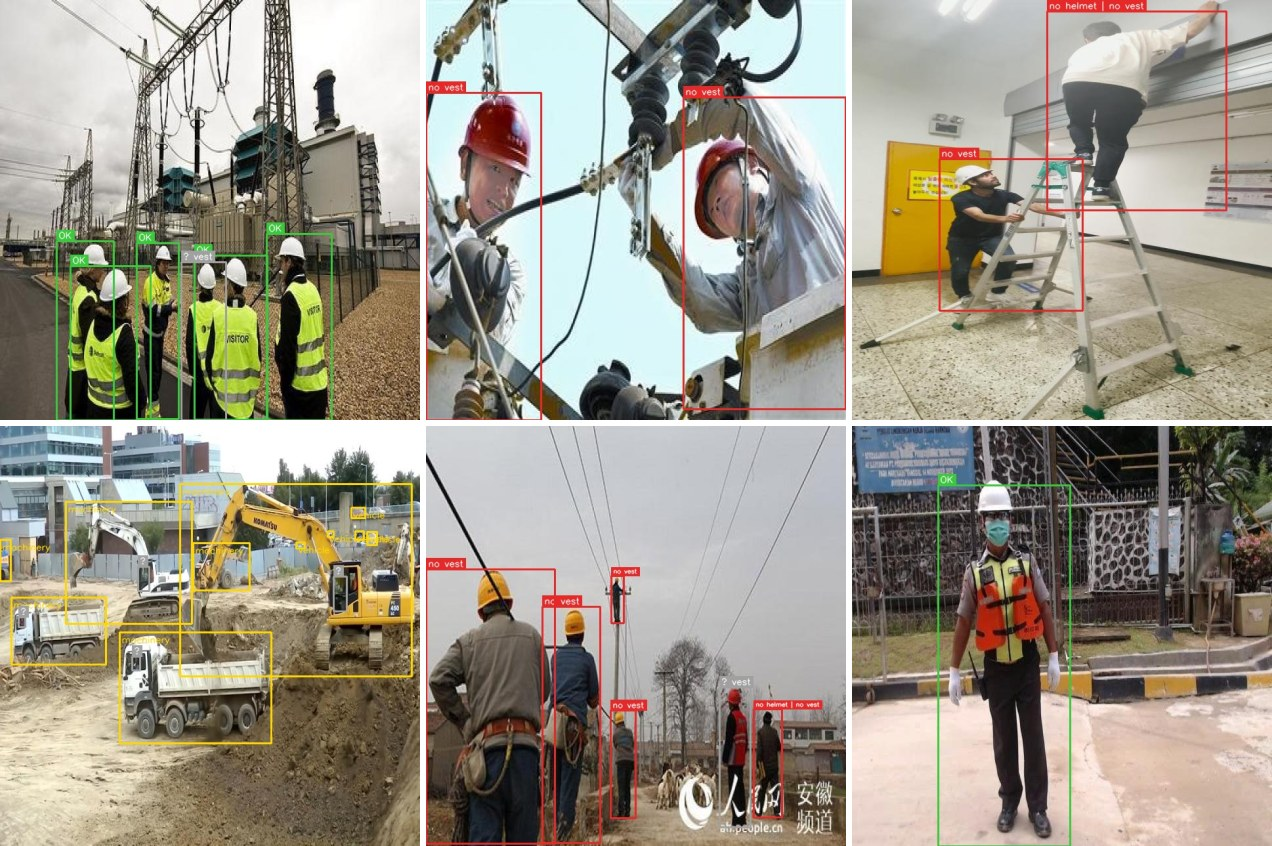
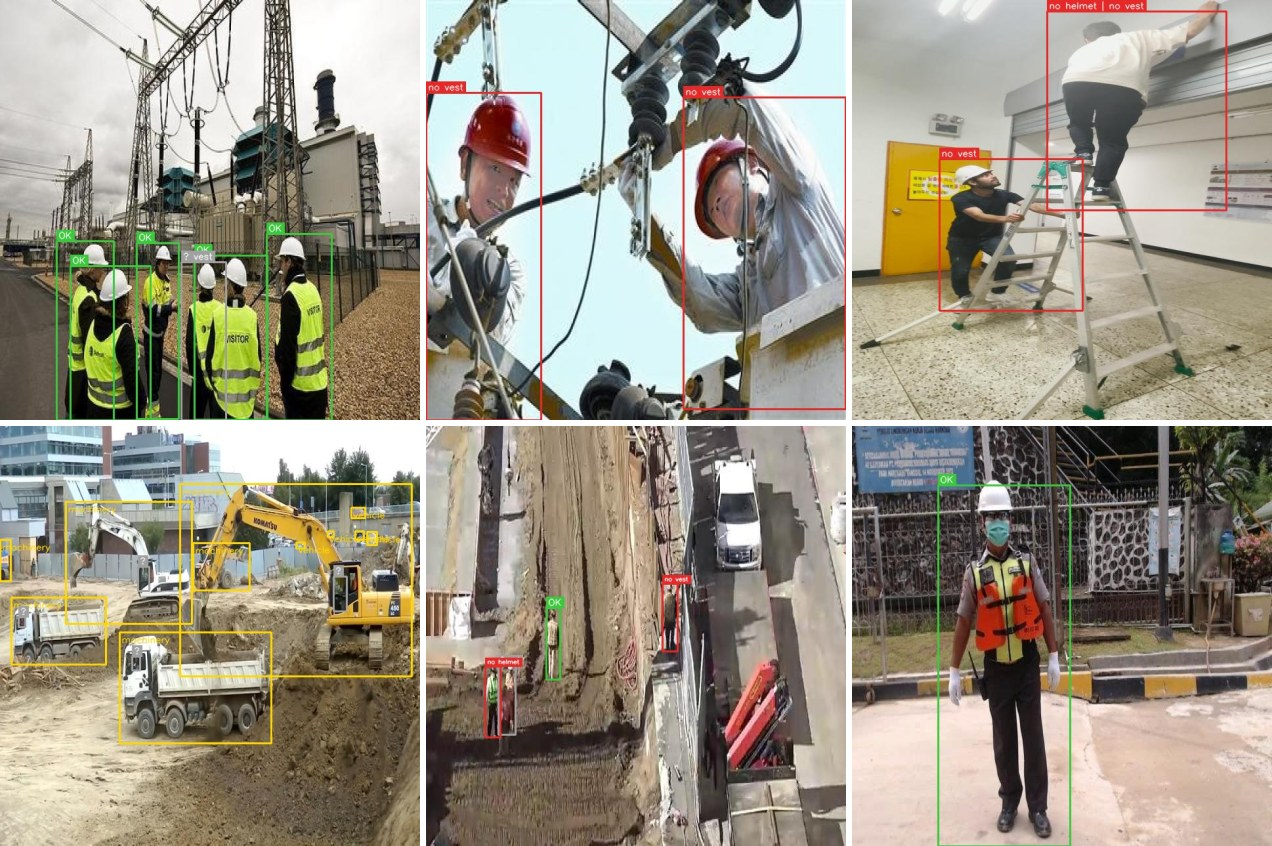
Figures without third-party watermarks, image credits under each figure

Changed region(s): [[0.3373, 0.4917, 0.6745, 1.0]]

diff --git a/scripts/make_panel.py b/scripts/make_panel.py
@@ -28,6 +28,8 @@ def main():
     p.add_argument("--cell", type=int, nargs=2, default=(420, 420), metavar=("W", "H"))
     p.add_argument("--gap", type=int, default=6)
     p.add_argument("--out", default="assets/results_panel.jpg")
+    p.add_argument("--numbers", action="store_true",
+                   help="write the image number in each cell (contact sheet for choosing images)")
     a = p.parse_args()
 
     w, h = a.cell
@@ -36,7 +38,13 @@ def main():
         img = cv2.imread(f)
         if img is None:
             raise SystemExit(f"cannot read {f}")
-        cells.append(fit(img, w, h))
+        cell = fit(img, w, h)
+        if a.numbers:
+            n = str(len(cells) + 1)
+            cv2.rectangle(cell, (0, 0), (60, 44), (0, 0, 0), -1)
+            cv2.putText(cell, n, (8, 34), cv2.FONT_HERSHEY_SIMPLEX, 1.2, (255, 255, 255), 2, cv2.LINE_AA)
+            print(f"{n:>3}  {f}")
+        cells.append(cell)
     rows = []
     for i in range(0, len(cells), a.cols):
         row = cells[i:i + a.cols]

diff --git a/README.md b/README.md
@@ -4,7 +4,8 @@
 
 ![results on construction-site images](assets/results_panel.jpg)
 
-*Released model on held-out construction-site images, checking what a construction site requires: hard hat and vest. Masks are checked only in zones that require them (a paint room in `configs/site_safety_zones.json`, or `--requires helmet vest mask`), so they are not judged here. Green `OK`: hard hat and vest worn. Red: what is missing (`no vest`, `no helmet`, `not hard hat` = non-work headwear). Grey `?`: cannot be judged (operator in a cab, person too small or hidden), and `? vest`: a vest detected with too little confidence to be trusted (bottom middle: a worker in red clothing, not accepted as wearing a vest). Yellow: machines and vehicles.*
+*Released model on held-out construction-site images, checking what a construction site requires: hard hat and vest. Masks are checked only in zones that require them (a paint room in `configs/site_safety_zones.json`, or `--requires helmet vest mask`), so they are not judged here. Green `OK`: hard hat and vest worn. Red: what is missing (`no vest`, `no helmet`, `not hard hat` = non-work headwear). Grey `?`: cannot be judged (operator in a cab, person too small or hidden), and `? vest`: a vest detected with too little confidence to be trusted (see *Development history*, step 5). Yellow: machines and vehicles.
+Images: [Construction Site Safety](https://www.kaggle.com/datasets/snehilsanyal/construction-site-safety-image-dataset-roboflow) (Roboflow, via Kaggle), CC BY 4.0; boxes and labels drawn by this project.*
 
 | Part | What is implemented |
 |---|---|
@@ -96,7 +97,8 @@ Fix (`scripts/prepare_hardhat.py`): 500 images were set aside first and never tr
 
 ![before / after on held-out external images](assets/before_after.jpg)
 
-*Held-out external images, before (left) and after (right), with the full decision drawn (hard hat + vest). Before, coloured hard hats were judged "no helmet" or "not hard hat"; after, they are recognised, and the alert that remains, "no vest", is correct: these workers wear no high-visibility vest. The title bars count hard-hat decisions only, since this dataset labels heads, not vests. In the second row, a red and a pink shirt were first accepted as vests (`OK`); with the minimum vest score (*Development history*, step 5) they are now `? vest`: not accepted, and no false alarm. Also visible: a few people too small to judge (`?`), and mirrored copies at the bottom of each image, which come from the dataset's padding. Pairs chosen automatically (most improved), made with `scripts/compare_models.py --check-vest --panel 4`.*
+*Held-out external images, before (left) and after (right), with the full decision drawn (hard hat + vest). Before, coloured hard hats were judged "no helmet" or "not hard hat"; after, they are recognised, and the alert that remains, "no vest", is correct: these workers wear no high-visibility vest. The title bars count hard-hat decisions only, since this dataset labels heads, not vests. In the second row, a red and a pink shirt were first accepted as vests (`OK`); with the minimum vest score (*Development history*, step 5) they are now `? vest`: not accepted, and no false alarm. Also visible: a few people too small to judge (`?`), and mirrored copies at the bottom of each image, which come from the dataset's padding. Pairs chosen automatically among the most improved (`scripts/compare_models.py --check-vest`), leaving out an image with a third-party watermark.
+Images: [Hard Hat Workers](https://huggingface.co/datasets/Voxel51/hard-hat-detection) (Make ML, via Kaggle and Voxel51), CC0; boxes and labels drawn by this project.*
 
 On the original test split, v2 keeps its behaviour: bare heads called "helmet" 0 %, false alarms on hard hats 2 % (4 % before), hard hats recognised 87 % (83 %), bare heads caught 65 % (68 %). Two costs: 4 of the 191 workers in non-work headwear (2 %) are now accepted as wearing a hard hat (0 before), and the `helmet` *box* mAP50 on the test split fell from 0.96 to 0.84 while the per-worker decisions improved. With 16k extra hard hats in training, the helmet class became more permissive and partly learned the external dataset's box style (see the control experiment below).
 
@@ -318,8 +320,10 @@ The released model is the fourth generation. The earlier steps are kept here bec
 |---|---|---|
 | [Construction Site Safety](https://www.kaggle.com/datasets/snehilsanyal/construction-site-safety-image-dataset-roboflow) (Roboflow) | CC BY 4.0 | training and test (released model) |
 | [Open Images V7](https://storage.googleapis.com/openimages/web/index.html) | annotations CC BY 4.0, images CC BY 2.0 | non-work headwear and vehicles |
-| [Hard Hat Workers](https://huggingface.co/datasets/Voxel51/hard-hat-detection) (Voxel51) | CC0 | training + 500 held-out images (external test) |
+| [Hard Hat Workers](https://huggingface.co/datasets/Voxel51/hard-hat-detection) (Make ML; Kaggle andrewmvd; Voxel51) | CC0 | training + 500 held-out images (external test) |
 | [Construction-PPE](https://docs.ultralytics.com/datasets/detect/construction-ppe/) (Ultralytics) | AGPL-3.0 | first model only (`ppe3`), not the released one |
+
+The figures in this README show images from these datasets, with the source under each figure; images carrying a third-party watermark were left out. The training plots are produced by this project.
 
 Training uses [Ultralytics YOLOv8](https://github.com/ultralytics/ultralytics) (AGPL-3.0), so this project, including the released models, is distributed under the same license.
 
